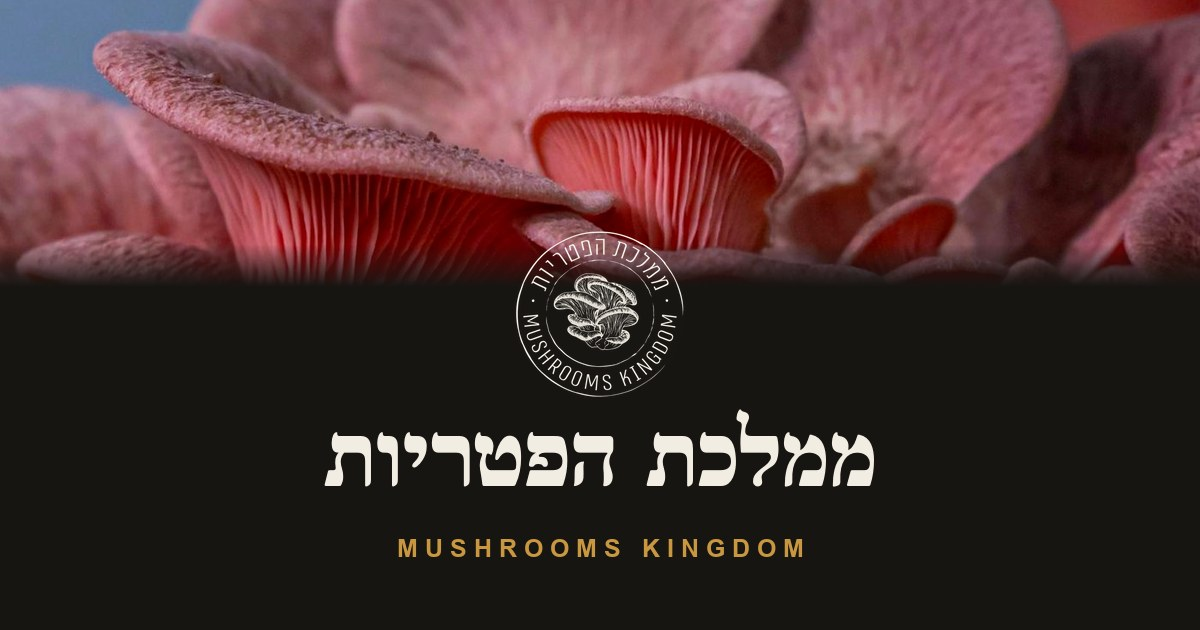
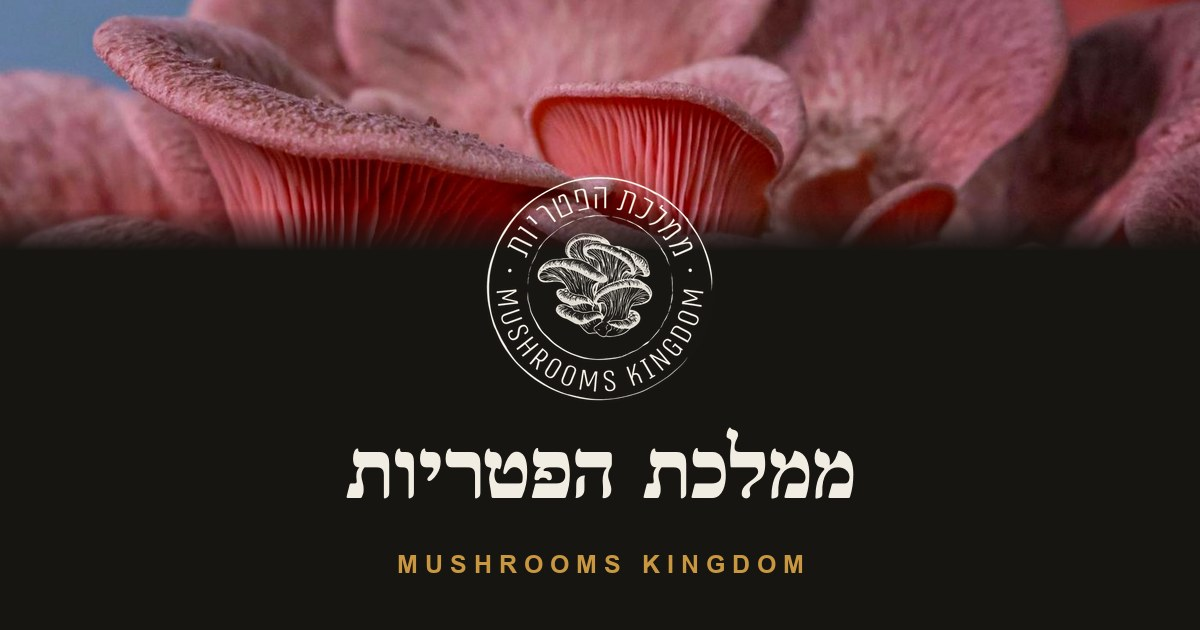
Enlarge the seal on the link-preview image
Matches the proportion used on the digital card, where the seal carries the
composition. At the previous size it read as an afterthought once WhatsApp
scaled the preview down.

Kept at 1200x630 deliberately: WhatsApp and Facebook crop og:image to 1.91:1,
so a squarer image loses its top and bottom and can drop the preview to the
small thumbnail layout instead of the large banner.

Changed region(s): [[0.0, 0.0, 1.0, 0.6333], [0.2467, 0.6635, 0.74, 0.8143], [0.3083, 0.8444, 0.6783, 0.9048]]

diff --git a/make_og.py b/make_og.py
@@ -20,7 +20,7 @@ from PIL import Image, ImageDraw, ImageEnhance, ImageFont, ImageOps
 
 HERE = pathlib.Path(__file__).parent
 W, H = 1200, 630
-PHOTO_H = 286          # where the photograph gives way to solid ground
+PHOTO_H = 250          # where the photograph gives way to solid ground
 FADE = 42              # soft join, so the edge is not a hard line
 
 SOURCE_PHOTO = HERE / "images" / "card_hero.jpg"
@@ -64,11 +64,11 @@ canvas.paste(
 draw = ImageDraw.Draw(canvas)
 
 logo = Image.open(LOGO).convert("RGBA")
-logo.thumbnail((172, 172), Image.LANCZOS)
+logo.thumbnail((232, 232), Image.LANCZOS)
 # sit the seal mostly on the solid ground, only its top edge on the photo
 canvas.paste(logo, ((W - logo.width) // 2, PHOTO_H - logo.height // 3), logo)
 
-f_brand = ImageFont.truetype(HEB_BOLD, 100)
+f_brand = ImageFont.truetype(HEB_BOLD, 92)
 f_latin = ImageFont.truetype(LATIN, 25)
 
 
@@ -84,8 +84,8 @@ def centred(text, font, y, fill, spacing=0):
         draw.text(((W - draw.textlength(text, font=font)) / 2, y), text, font=font, fill=fill)
 
 
-centred(heb("ממלכת הפטריות"), f_brand, 406, CREAM)
-centred("MUSHROOMS KINGDOM", f_latin, 534, OCHRE, spacing=7)
+centred(heb("ממלכת הפטריות"), f_brand, 424, CREAM)
+centred("MUSHROOMS KINGDOM", f_latin, 550, OCHRE, spacing=7)
 
 canvas.save(OUT, quality=88, optimize=True, progressive=True)
 print("og.jpg", OUT.stat().st_size // 1024, "KB", canvas.size)
